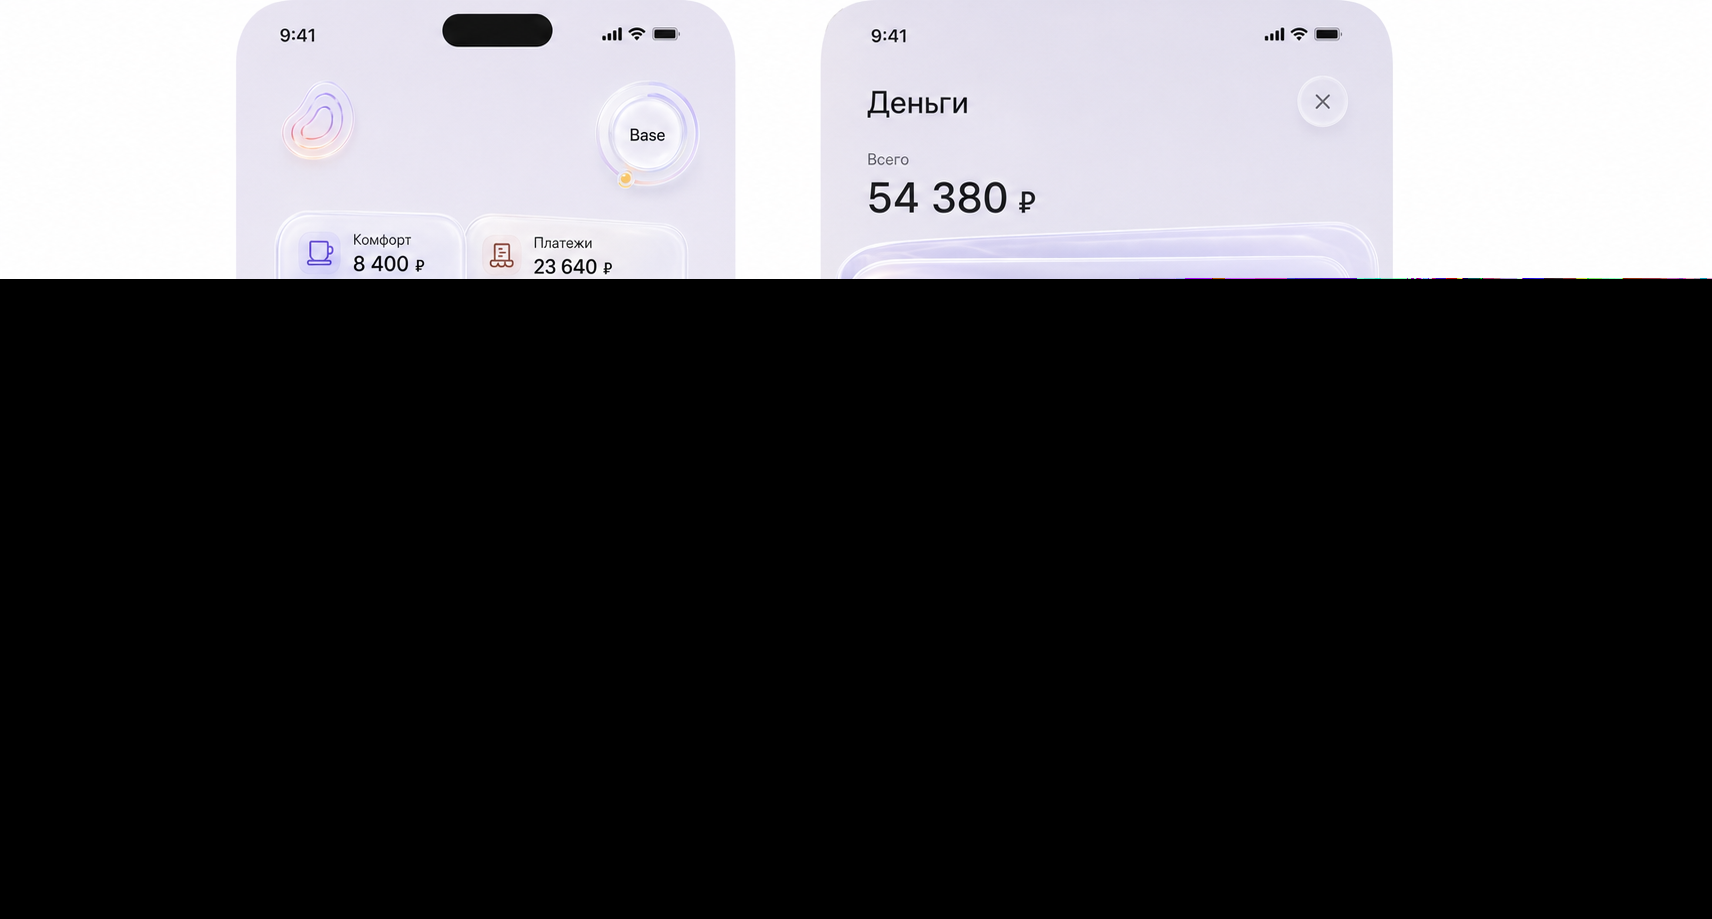
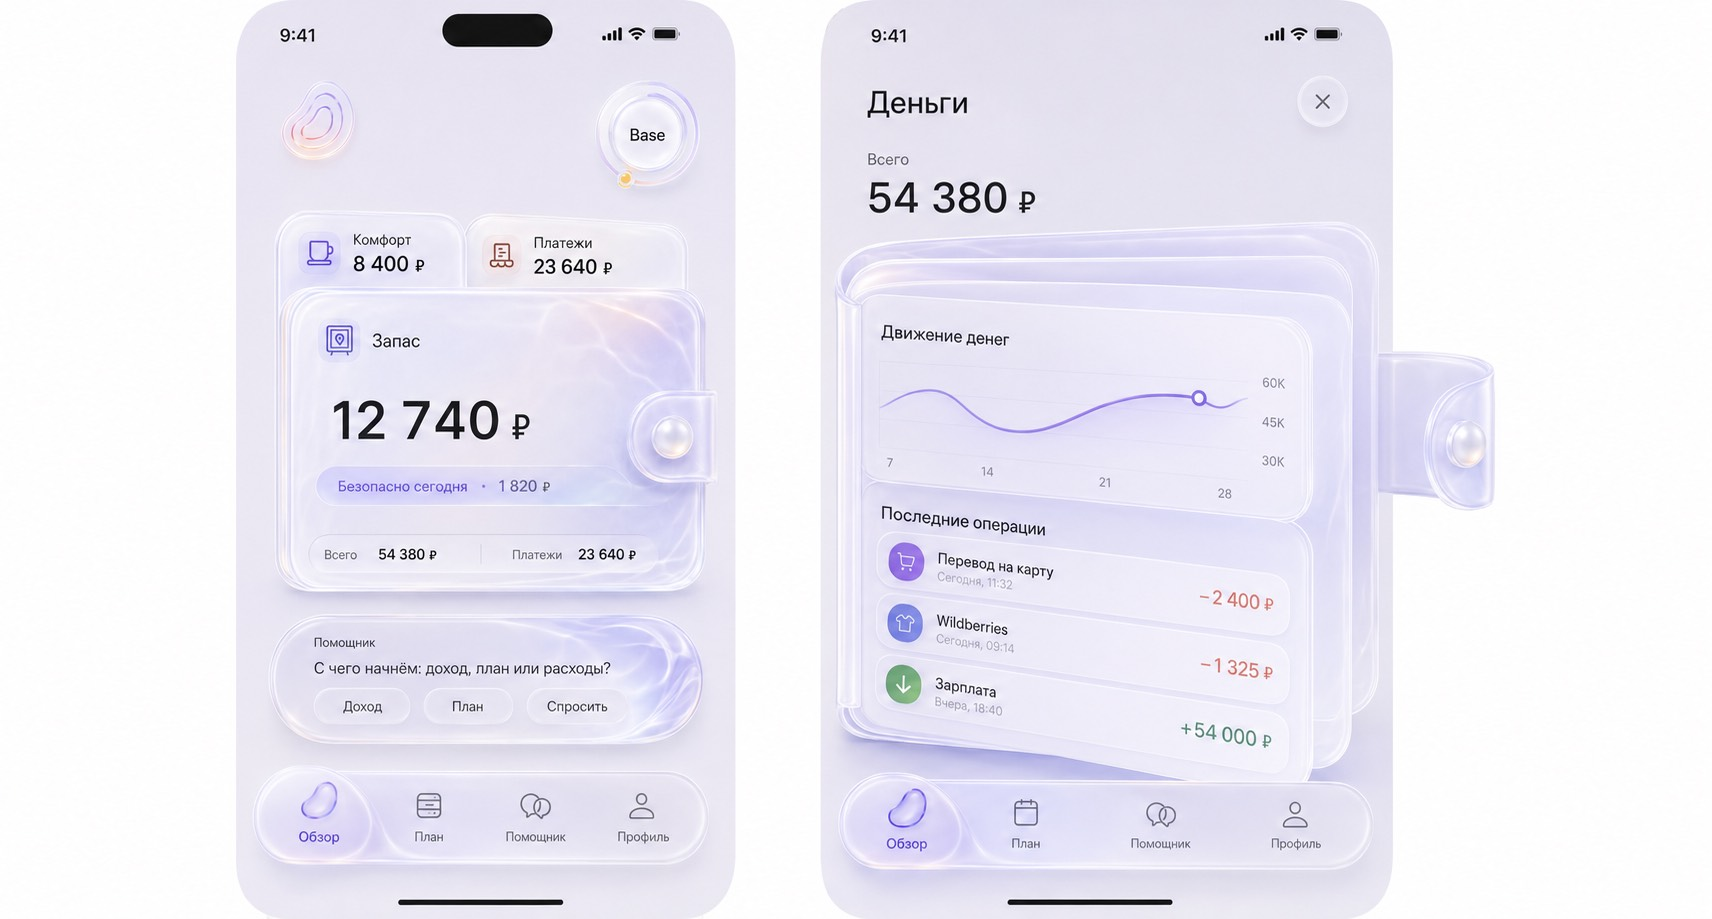
Restore full vyhod-selected-direction-b reference from user JPEG
Replace truncated black-bottom PNG with complete 1712×919 mockup.
Add overview/money phone crops for side-by-side visual QA.

diff --git a/docs/design-references/README.md b/docs/design-references/README.md
@@ -11,3 +11,5 @@ Implementation requirements and interpretation rules are in:
 `/VYHOD_ULTIMATE_REDESIGN_CODEX_PROMPT.txt`
 
 Do not use these PNG files as UI backgrounds or substitutes for coded components. Recreate the system responsively with HTML/CSS/SVG and real application data.
+
+> **Note:** `vyhod-selected-direction-b.png` was restored from a full user-supplied JPEG (2026-07-31). Phone crops: `screenshots/direction-b-overview-full.png`, `screenshots/direction-b-money-full.png`.
